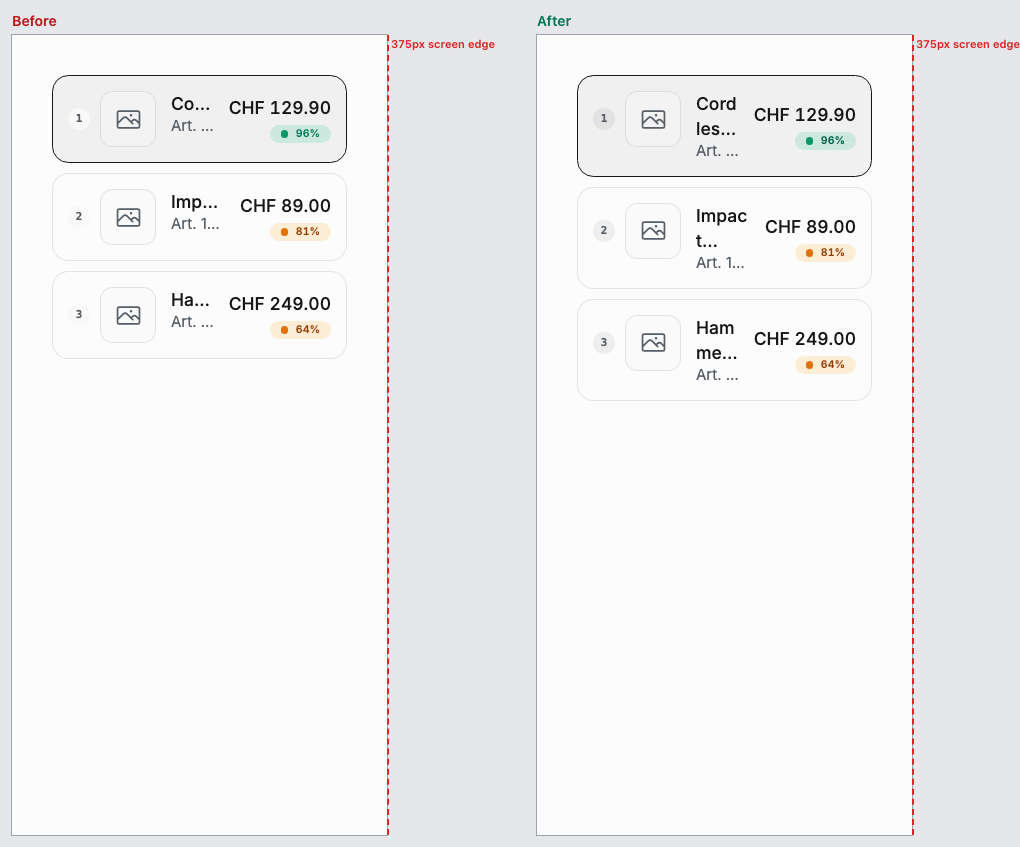
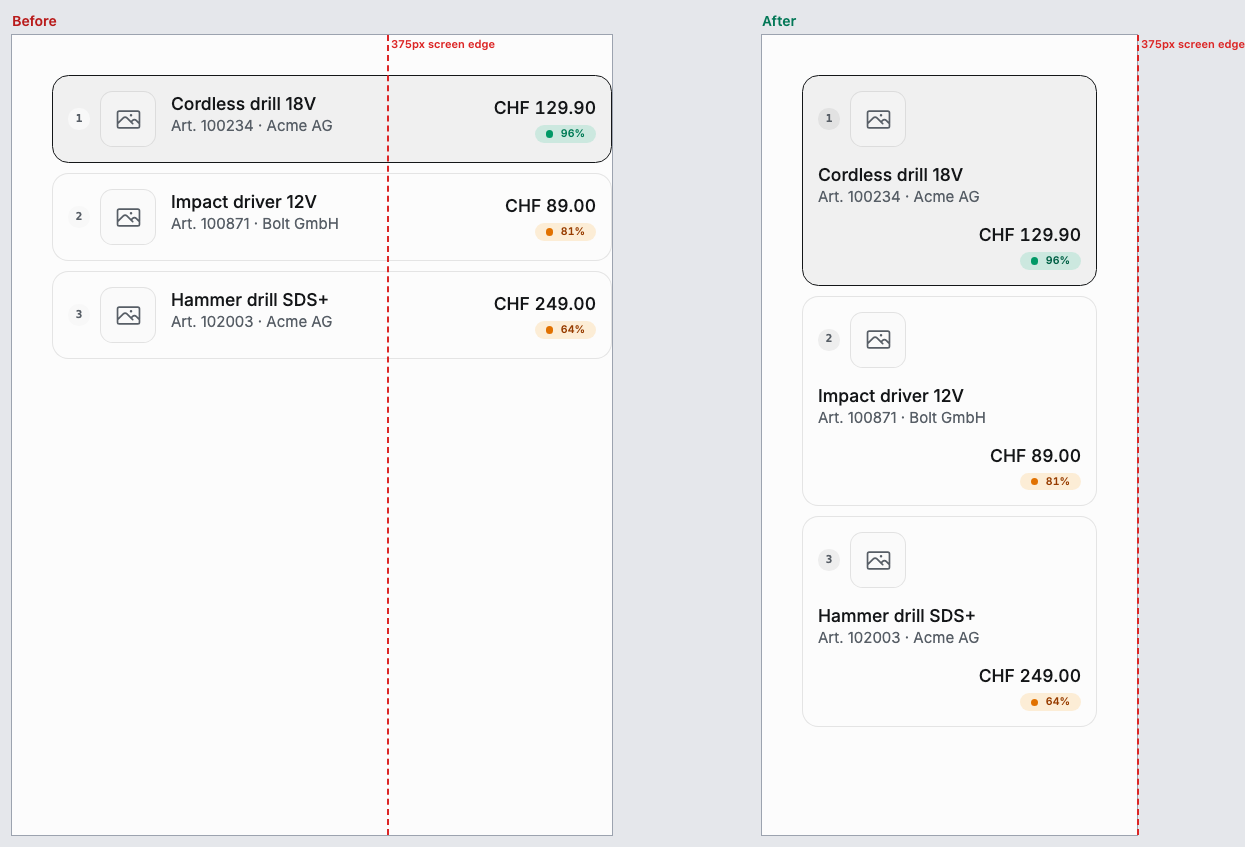
fix(ui): ResultCard wraps trailing content on narrow cards; regenerate PR screenshots from main vs branch
ResultCard: flex-wrap + title min-w-[min(10rem,100%)] + trailing ml-auto, so at large text
or in narrow containers the price/score moves below the title instead of squeezing it to a
few letters (was still unreadable after round 6). ui 0.26.4.

Screenshots: every before/after pair is now captured fresh from main (base) and this branch
with identical viewport/theme/state at true pixel size, with a screen-edge marker; contrast
pairs are cropped to the component at 2x.

diff --git a/packages/ui/src/patterns/result-card/ResultCard.tsx b/packages/ui/src/patterns/result-card/ResultCard.tsx
@@ -123,7 +123,7 @@ export const ResultCard = ({
   "data-testid": testId,
 }: ResultCardProps): ReactElement => {
   const classes = cn(
-    "flex w-full items-start gap-3 rounded-xl border border-foreground/10 bg-background p-3 text-left transition-colors dark:border-border",
+    "flex w-full flex-wrap items-start gap-3 rounded-xl border border-foreground/10 bg-background p-3 text-left transition-colors dark:border-border",
     "hover:bg-foreground/5 focus-visible:outline-none focus-visible:ring-2 focus-visible:ring-ring motion-reduce:transition-none",
     selected && "border-foreground bg-foreground/5 dark:border-foreground/60",
     disabled && "pointer-events-none opacity-50",
@@ -133,13 +133,13 @@ export const ResultCard = ({
   const body = (
     <>
       {leading}
-      <span className="min-w-0 flex-1">
+      <span className="min-w-[min(10rem,100%)] flex-1">
         <span className="line-clamp-2 break-words font-medium text-sm">{title}</span>
         {present(meta) && <span className="block truncate text-muted-foreground text-xs">{meta}</span>}
         {present(description) && <span className="mt-1 line-clamp-2 block text-muted-foreground text-sm">{description}</span>}
         {present(footer) && <span className="mt-2 block">{footer}</span>}
       </span>
-      {present(trailing) && <span className="shrink-0 self-center">{trailing}</span>}
+      {present(trailing) && <span className="ml-auto shrink-0 self-center">{trailing}</span>}
     </>
   );
   return (

diff --git a/AGENTS.md b/AGENTS.md
@@ -690,7 +690,7 @@ logic above, which already had its own extraction). Structure:
   `GridInlineError` too), used by `AsyncBoundary`'s and both grids' stale-data
   banners so long messages wrap; the per-node tree error stays one line. Group
   header buttons in both grids are `sticky left-2 w-[calc(var(--dg-viewport-w,100%_+_1rem)_-_1rem)]` (`--dg-viewport-w` is set on the scroll container by `useViewportWidthVar`, only while the table overflows; fallback 100%) so the label stays in
-  view under horizontal scroll. `ResultCard` titles clamp to 2 lines, `FileInput`
+  view under horizontal scroll. `ResultCard` titles clamp to 2 lines and the card wraps (`flex-wrap`, title `min-w-[min(10rem,100%)]`, trailing `ml-auto`) so on narrow cards or large text the trailing price/score moves to its own line instead of squeezing the title (ui 0.26.4), `FileInput`
   `size="sm"` wraps (`min-h-9`), `Calendar` cells cap at `(100vw-3.5rem)/7`,
   `MetadataList`'s label column is capped at 40%, `Toolbar`'s overflow-button
   width follows the root font size. Story wrappers with a fixed width (`w-72`
